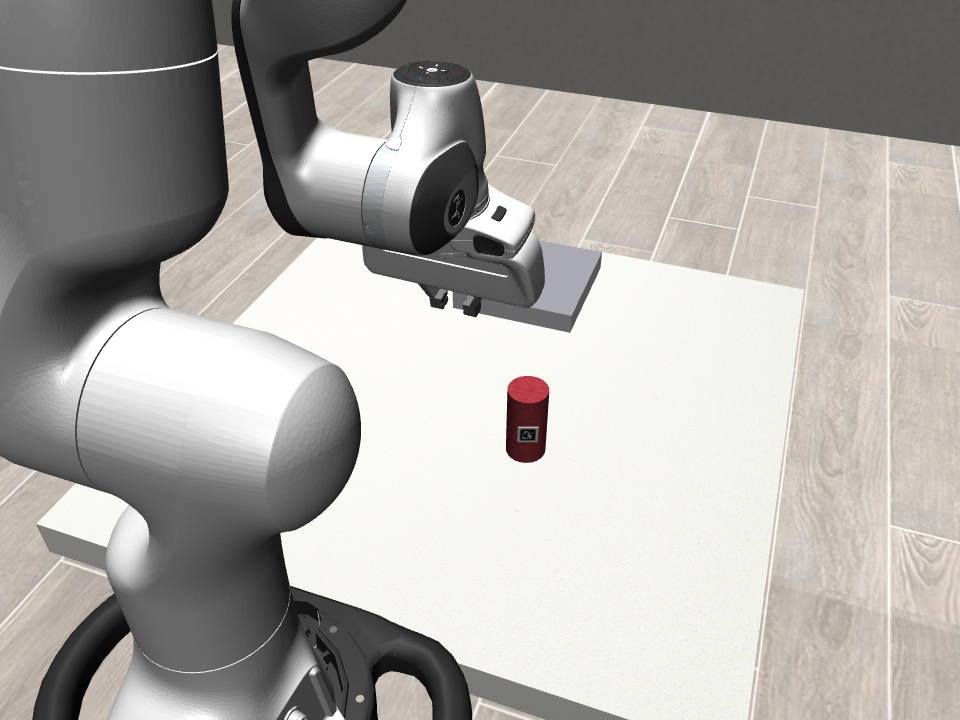
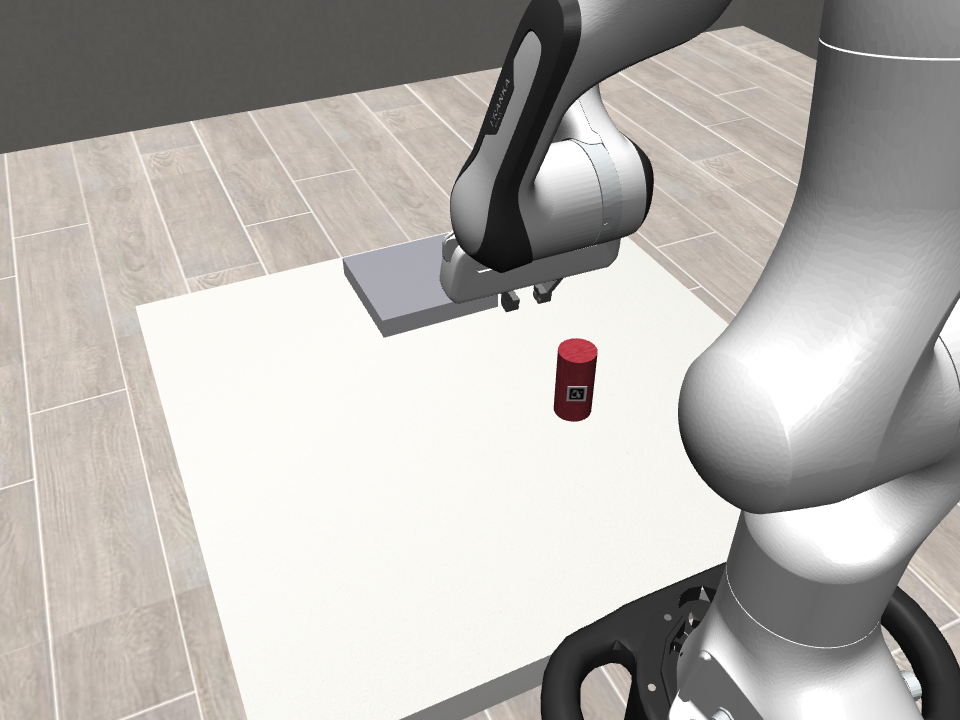
Adjust camera azimuth angle for improved visibility and update output check image

diff --git a/environment.py b/environment.py
@@ -213,7 +213,7 @@ class PickPlaceEnv(ManipulationEnv):
     # render was filled edge-to-edge by one out-of-focus gray shape, and
     # ArUco naturally found nothing). Pulling the camera out to 1.3 clears
     # the robot's body while keeping the same azimuth.
-    _CAM_AZIMUTH_DEG = 200
+    _CAM_AZIMUTH_DEG = 155
     _CAM_HORIZ_DIST = 0.9
     _CAMERA_XY_OFFSET = np.array([
         _CAM_HORIZ_DIST * np.cos(np.radians(_CAM_AZIMUTH_DEG)),
